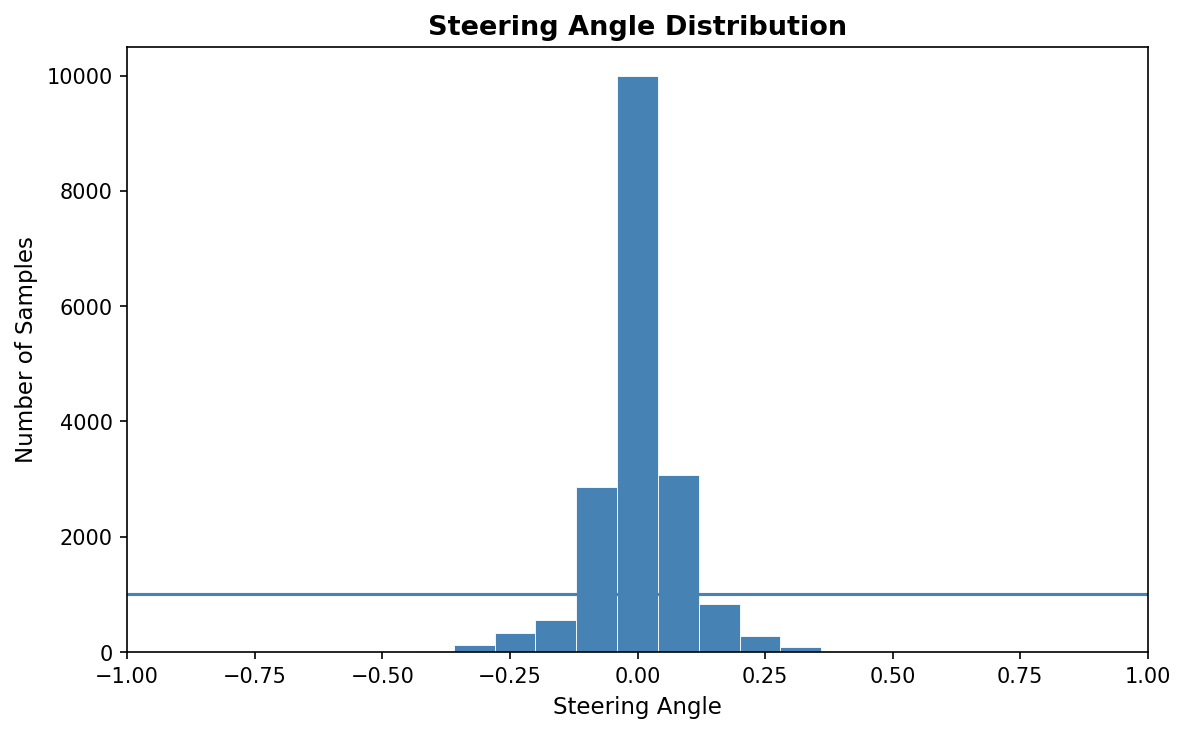
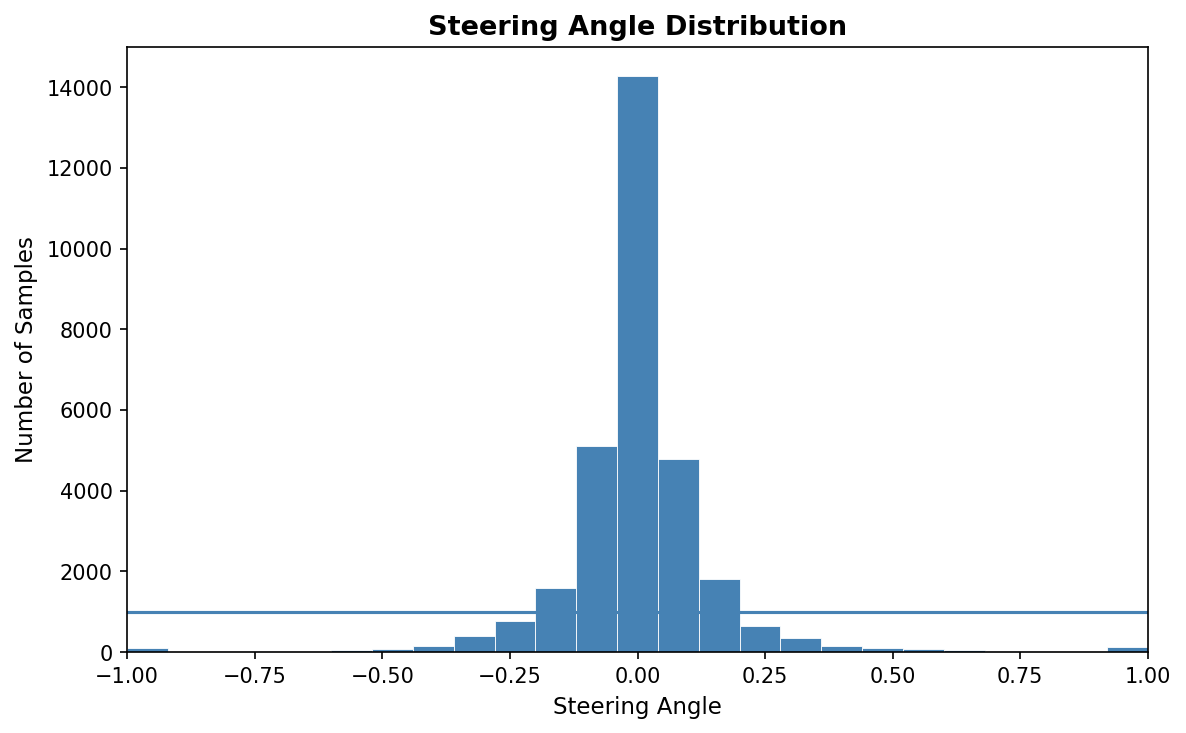
Updated histogram to include new training data

diff --git a/histogram/plot_steering_histogram.py b/histogram/plot_steering_histogram.py
@@ -5,15 +5,17 @@ import os
 
 base_dir = os.path.dirname(os.path.abspath(__file__))
 
-forwards_csv = os.path.join(base_dir, "training_data_forwards", "driving_log.csv")
-backwards_csv = os.path.join(base_dir, "training_data_backwards", "driving_log.csv")
+forwards_csv  = os.path.join(base_dir, "..", "training_data_forwards", "driving_log.csv")
+backwards_csv = os.path.join(base_dir, "..", "training_data_backwards", "driving_log.csv")
+unstable_csv  = os.path.join(base_dir, "..", "training_data_forwards_backwards_unstable", "driving_log.csv")
 
 cols = ["center", "steering", "throttle", "brake", "speed"]
 
-df_fwd = pd.read_csv(forwards_csv, header=None, names=cols)
-df_bwd = pd.read_csv(backwards_csv, header=None, names=cols)
+df_fwd      = pd.read_csv(forwards_csv,  header=None, names=cols)
+df_bwd      = pd.read_csv(backwards_csv, header=None, names=cols)
+df_unstable = pd.read_csv(unstable_csv,  header=None, names=cols)
 
-df_all = pd.concat([df_fwd, df_bwd], ignore_index=True)
+df_all = pd.concat([df_fwd, df_bwd, df_unstable], ignore_index=True)
 
 # steering values are already normalized to [-1, 1] by the sim
 steering = df_all["steering"].astype(float)
@@ -21,6 +23,7 @@ steering = df_all["steering"].astype(float)
 print(f"Total samples     : {len(steering)}")
 print(f"  Forwards        : {len(df_fwd)}")
 print(f"  Backwards       : {len(df_bwd)}")
+print(f"  Unstable        : {len(df_unstable)}")
 print(f"Steering angle range (normalized): [{steering.min():.4f}, {steering.max():.4f}]")
 print(f"Mean  : {steering.mean():.4f}")
 print(f"Std   : {steering.std():.4f}")
